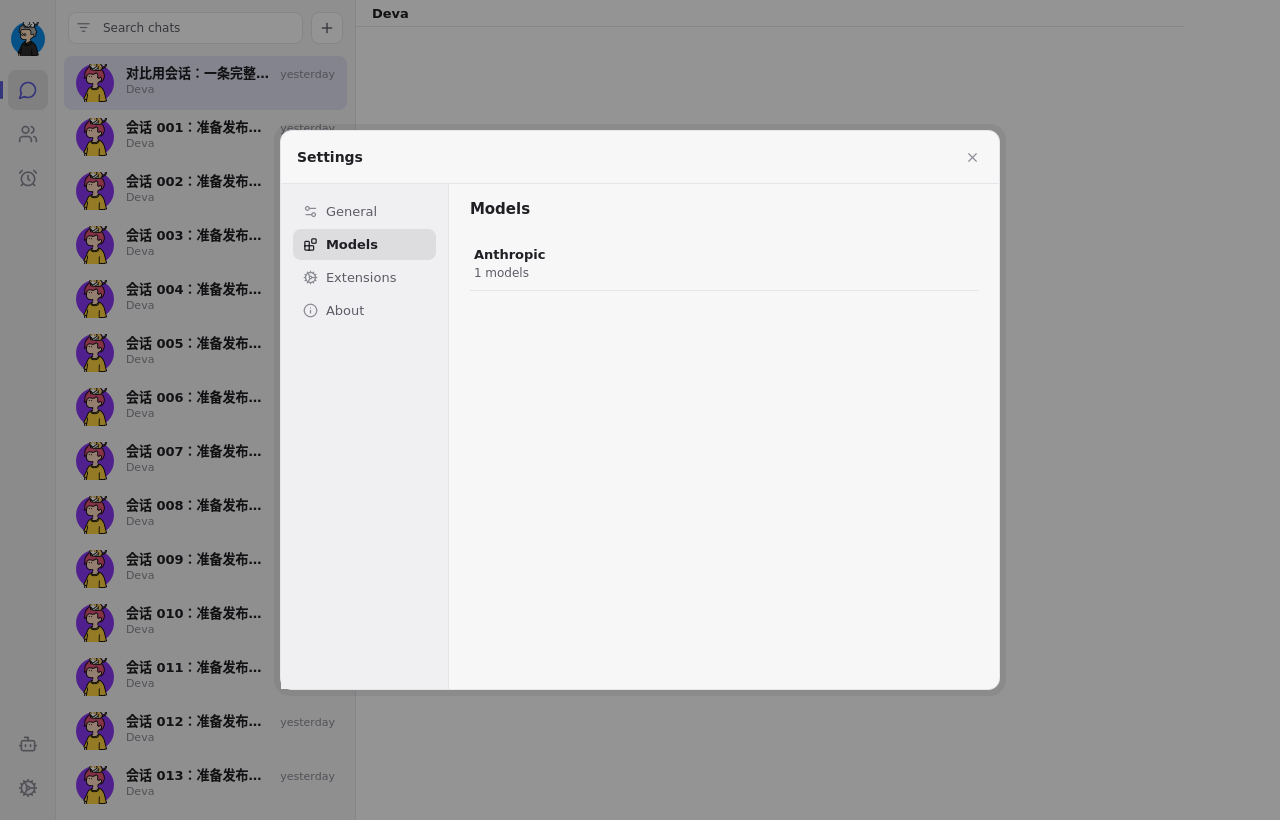
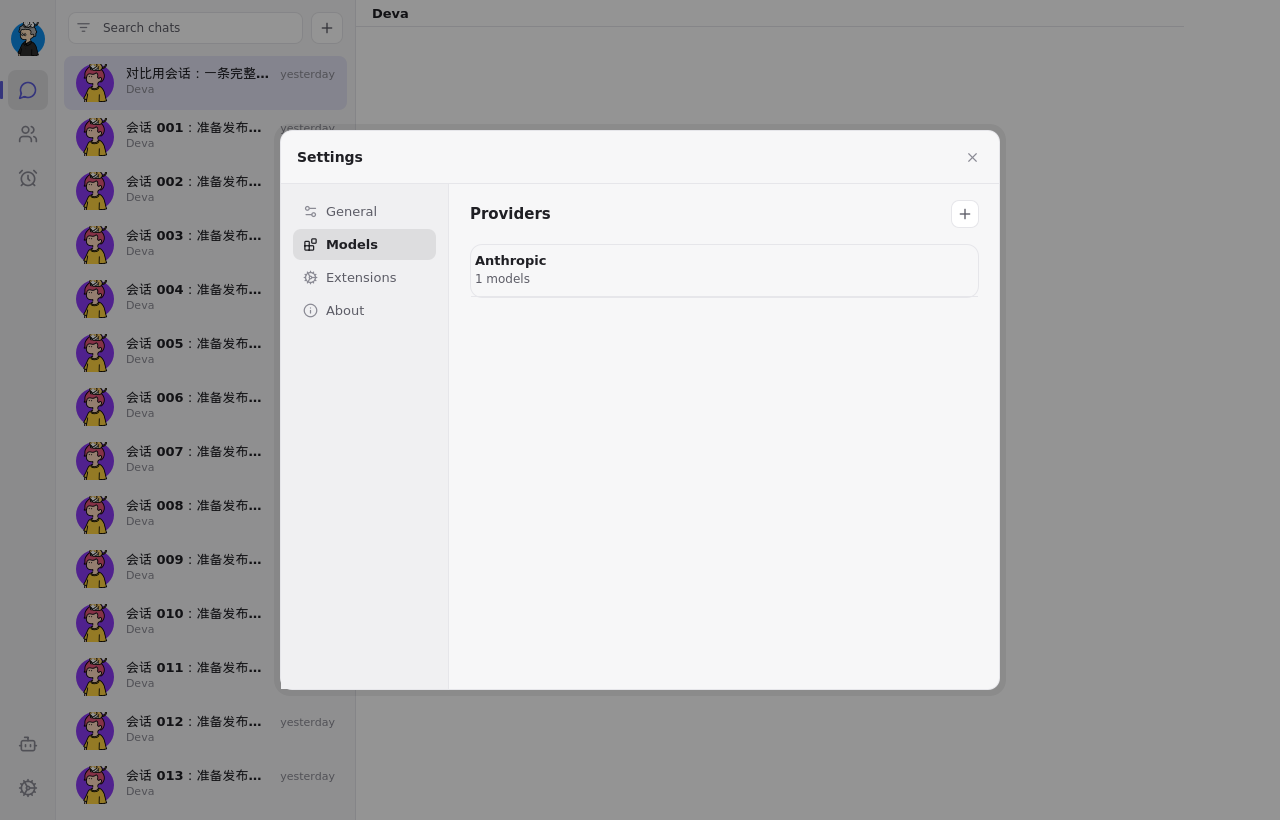
docs(latest-parity): §4.4 记录 Models 面板三项结构与实测

diff --git a/out/latest-parity/REPORT.md b/out/latest-parity/REPORT.md
@@ -387,3 +387,59 @@ app/src/qml/IconData.qml:108:        if (key === "refreshCw") return refreshCw
 ```
 
 判否项：无。
+
+### 4.4 设置 · Models 面板：Providers 标题 + 28×28 加号 + 描边容器（B2-2）
+
+commit `96e7136`（`feat(settings): Models 面板 Providers 标题 + 28×28 加号 + 描边容器`）。
+改动路径：`app/src/qml/SettingsModal.qml`（`modelsPane` 三项结构）、`app/src/qml/Theme.qml`
+（补 `--bg-elevated` 语义 token：浅色 `#ffffff` / 深色 `#2a2a2e`）。
+
+几何逐值取自 deva 只读源码 `features/settings/ModelSettings.tsx` + `styles/app.css`：
+`.cf-pane` 内边距 `var(--space-4) var(--space-5)`（16px 20px）；`.models__head` 高 28
+（flex/align-items:center）+ `margin-bottom: var(--space-4)`（16px）；`.models__title`
+15px/700、`var(--fg)`；`.models__add-btn` 28×28、`1px solid var(--border)`、
+`border-radius: var(--radius)`（8px）、`background: var(--bg-elevated)`、Plus 图标 16；
+`.models__rows` `border: 1px solid var(--border)`、`border-radius: var(--radius-lg)`（12px）。
+数据只走已入库的 `app/src/mvvm/services/settings_models.py` 投影（`shellBridge.modelRows()` /
+`shellBridge.modelsPaneLabels()`），QML 未新建数据源。
+
+**单页重拍**（只拍 settings-models，AI_UPPER_HOME 指向 /tmp 夹具）：
+
+```
+$ bash scripts/parity/qml_page_shot.sh settings-models /tmp/settings-models-after.png /tmp/fx-qml-home config.json > /tmp/shot-after.log 2>&1; echo rc=$?
+rc=0
+$ sed -n '1p' /tmp/shot-after.log
+QML OK platform=offscreen title='Deva' sessions=120 active='parity-000' plain=False turn_stop='' deltas=0 home=/tmp/fx-qml-home png=/tmp/settings-models-after.png size=1280x820
+```
+
+**差异复算**（`scripts/parity/page_diff18.py`，改前基线 `out/latest-parity/qml/settings-models.png`
+已先备份到 `/tmp/settings-models-before.png`，改后图写入同路径）：
+
+```
+$ python3 -I scripts/parity/page_diff18.py out/latest-parity/deva out/latest-parity/qml > /tmp/after-diff18.txt 2>&1; echo rc=$?
+rc=0
+$ grep 'settings-models' /tmp/after-diff18.txt
+settings-models        7f7a6dd835823f50475db7a3c9e727c1 5cfc65fa1103ba93eea1d3627595cee8  132243  102589  326609  31.12% max=237 same=False
+```
+
+改前基线同一算法：`328000 px / 31.25%`；改后实测：`326609 px / 31.12%`（降低 1391 像素、
+0.13 个百分点）。注：该指标按任意通道非零差计，整页背景/字体抗锯齿的系统性差异占大头；
+本次只改 Models 列表头与容器，结构差异集中在这三处。
+
+**受影响测试**：
+
+```
+$ AI_UPPER_HOME=/tmp/ai-upper-models-test-shell .venv/bin/python -m pytest app/tests/test_qml_shell.py -q > /tmp/test-qml-shell.log 2>&1; echo rc=$?
+rc=0
+$ sed -n '$p' /tmp/test-qml-shell.log
+46 passed in 0.58s
+
+$ AI_UPPER_HOME=/tmp/ai-upper-models-test-settings .venv/bin/python -m pytest app/tests/test_qml_settings_models.py -q > /tmp/test-qml-settings-models.log 2>&1; echo rc=$?
+rc=0
+$ sed -n '$p' /tmp/test-qml-settings-models.log
+44 passed in 0.21s
+```
+
+判否项：provider 行高 52px、警告三角、chevron、详情下钻、Wrench、provider 详情请求头界面、
+About 版本单一来源、18 页全量重拍、四条硬判据复核均未做——本轮只交付 Providers 标题、
+28×28 加号、1px 描边圆角容器三项；provider 行仍沿用旧 delegate，留待下一段。
